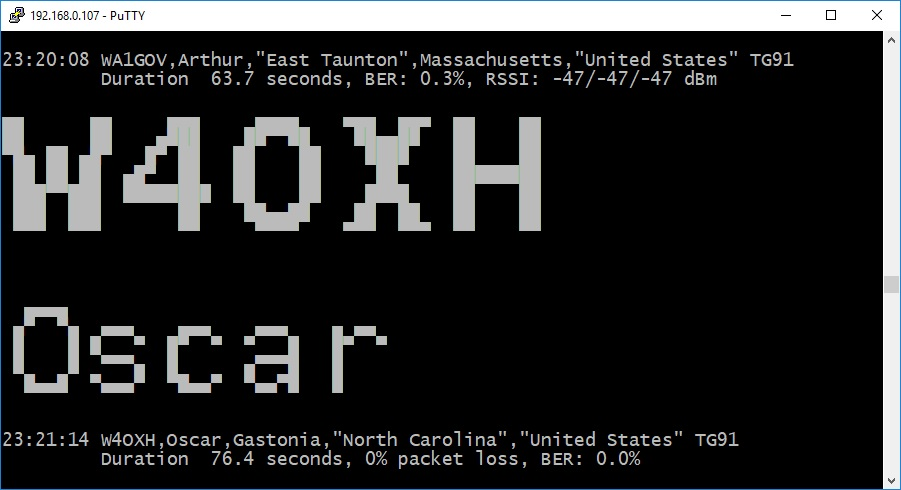
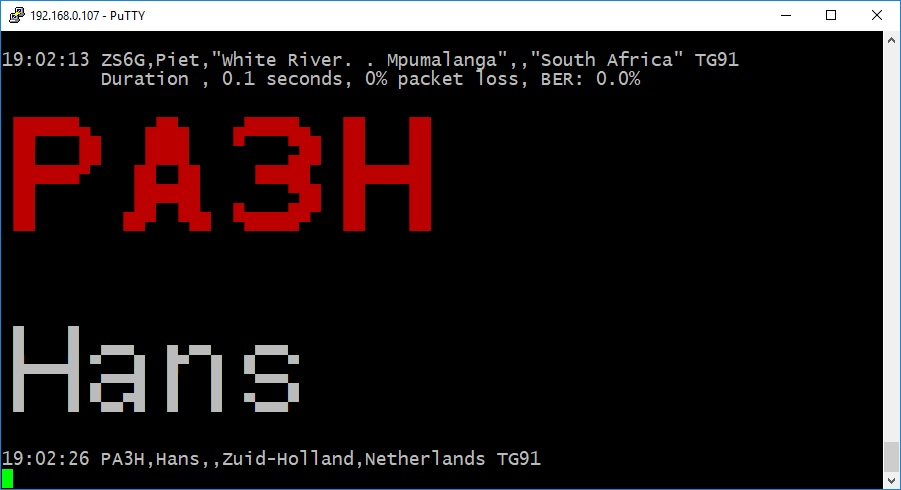
Updated with install script and color feature.

diff --git a/README.md b/README.md
@@ -1,6 +1,8 @@
 # Pistar-SSH-Helper
+
+DESCRIPTION
+
 Display Pistar hotspot station info via an SSH session
-Initial version: 1.1.0
 
 This is a little C++ program that reads the latest MMDVM log
 file from the default /var/log/pistar directory. It then
@@ -10,13 +12,17 @@ argument is used to specify the MMDVM log file as the
 name changes daily.
 
 Most dmr id database files can be used to retrieve station
-information. It just needs to be named usr.bin and reside
-in the current directory. Information retieved from the
-dmr database will be displayed on the ssh terminal.
+information. Typical format includes six comma delimited
+fields similar to the following:
 
-The callsign and name will be displayed in large characters
-followed by a timestamp, callsign, first name, city, state,
-country and talkgroup in normal text (see example.jpg).
+3125916,WA1GOV,Arthur,East Taunton,Massachusetts,US
+
+The ID database needs to be named usr.bin and reside in
+the home/current directory. Information retieved from the
+dmr database will be displayed as in the example.jpg file.
+
+----------------------------------------------------------------
+REQUIREMENTS/PREREQUISITES
 
 The following requirements/prerequisites need to be done before
 starting up the program.
@@ -24,42 +30,82 @@ starting up the program.
 Use SSH from the pistar dashboard or another ssh client and login
 to the Pistar hotspot.
 
-Install figlet and toilet on the RPI hosting the hotspot.
+The easiest way to install this is to run the following command:
+    
+    git clone https://github.com/wa1gov/Pistar-SSH-Helper.git
 
-sudo pistar-update
-sudo apt-get install figlet
-sudo apt-get install toilet
+This will create a directory called Pistar-SSH-Helper.
+In this directory look for the script:
+
+    psh-install.sh
+
+Make this script executable, then run it:
+
+    cd ~/Pistar-SSH-Helper
+    chmod +x psh-install.sh
+    ./psh-install.sh
+
+The command should perform all the other commands listed
+in the next section below. If you ran psh-install.sh successfully,
+you can now skip to OPERATION and OPTIONS.
+
+----------------------------------------------------------------
+
+Make slh and showlh executable.
+
+    cd ~/Pistar-SSH-Helper
+    chmod +x slh showlh
 
 Download the database file in the pi-star home directory
 
-cd ~
-wget -O usr.bin http://www.amateurradio.digital/pi-star_data.php
+    wget -O usr.bin http://www.amateurradio.digital/pi-star_data.php
 
-Download showlh and slh into the pi-star home directory from GitHub.
-Make both files executable.
+Install figlet and toilet on the RPI hosting the hotspot.
 
-chmod +x slh showlh
+    sudo pistar-update
+    sudo apt-get install figlet
+    sudo apt-get install toilet
 
-Operation and options.
+----------------------------------------------------------------
+OPERATION and OPTIONS
 
-Run: ./slh to start the program
+The showlh.cfg offers the option to choose a color for the callsign display:
+
+BLACK
+BBLACK
+RED=DEFCOLOR
+BRED
+GREEN
+BGREEN
+
+Choose the color by editing the file and appending "=DEFCOLOR" to the 
+color of choice as in the example above.
+
+Run slh to start the program
+
+    ./slh
+
 Use CTRL+C to exit the program
 
-Run: ./showlh -v to get the version
-./showlh version 1.1.0
+Run showlh -v to get the program version.
 
-Run: ./showlh <logfile name>
+    ./showlh -v
+    ./showlh version 1.1.0
+
+You can run showlh <logfile name>
 to specify a different logfile from the default.
 
-Disclaimer and Caveats
+----------------------------------------------------------------
+DISCLAIMER and CAVEATS
 
 This program has only been tested with a Jumbospot MMDVM on RPI Zero.
 Other hotspots may exhibit different results or errors.
 
-For MMDVM hotspots, the default logfile is located in /var/log/pi-star and is named
-MMDVM-year-month-day.log
+For MMDVM hotspots, the default logfile is located in 
+/var/log/pi-star and is named by convention:
+
+    MMDVM-year-month-day.log
 
 The logfile name changes automatically via Pistar at 2400 UTC.
 The program may appear to hang at 2400 UTC as a new logfile is created.
 If this condition occurs, stop and restart the program.
-
